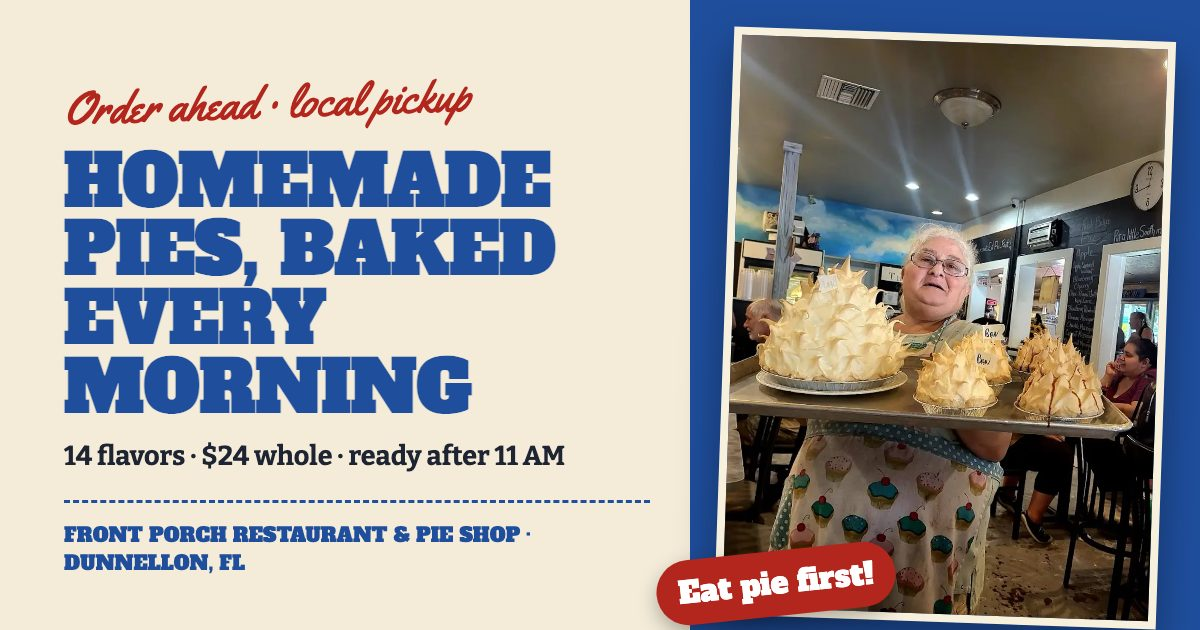
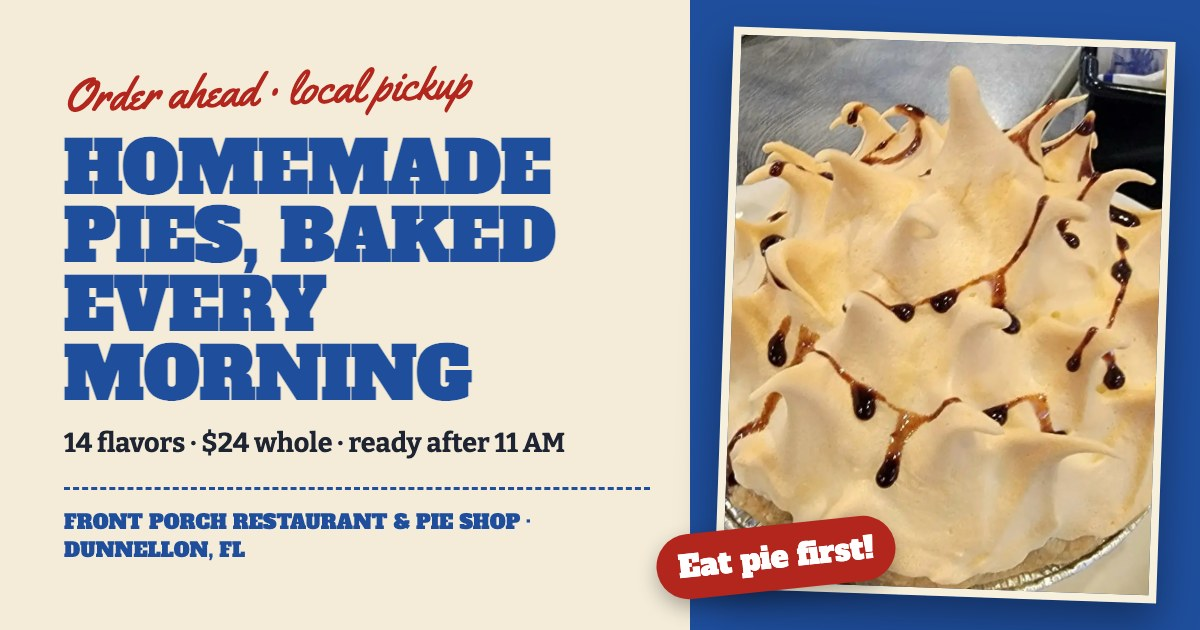
fix: replace former-employee photo on homepage, pies page and pies OG card
Swap pie-baker.webp for the meringue slice photo (pie.webp) on the home
pie feature and the pies hero, move the pies gallery's last slot to the
cobbler photo to avoid a duplicate, and re-render assets/og/pies.jpg
with the whole meringue pie. Delete pie-baker.webp from the repo.

diff --git a/pies.html b/pies.html
@@ -20,7 +20,7 @@
 <meta name="twitter:title" content="Order Homemade Pies — Front Porch Pie Shop, Dunnellon" />
 <meta name="twitter:description" content="Whole homemade pies $24, baked fresh every morning in Dunnellon, FL. 14 flavors: Key lime, pecan, apple, lemon meringue and more. Order a day ahead, pick up after 11 AM." />
 <meta name="twitter:image" content="https://palmettoai.github.io/front-porch-restaurant/assets/og/pies.jpg" />
-<link rel="preload" as="image" href="assets/img/pie-baker.webp" fetchpriority="high" />
+<link rel="preload" as="image" href="assets/img/pie.webp" fetchpriority="high" />
 <link rel="preconnect" href="https://fonts.googleapis.com" />
 <link rel="preconnect" href="https://fonts.gstatic.com" crossorigin />
 <link rel="stylesheet" href="https://fonts.googleapis.com/css2?family=Alfa+Slab+One&amp;family=Bitter:wght@400;700;800&amp;family=Yellowtail&amp;display=swap" />
@@ -291,7 +291,7 @@
         </div>
       </div>
       <div class="ph-art">
-        <div class="photo"><img src="assets/img/pie-baker.webp" width="825" height="1100" alt="A Front Porch baker carrying a tray of towering meringue pies" fetchpriority="high" /></div>
+        <div class="photo"><img src="assets/img/pie.webp" width="712" height="950" alt="A towering slice of Front Porch meringue pie drizzled with chocolate" fetchpriority="high" /></div>
         <p class="stamp" aria-hidden="true"><span>Life’s short</span><b>Eat pie first!</b></p>
       </div>
     </div>
@@ -401,7 +401,7 @@
         <figure class="polaroid g2 reveal"><img src="assets/img/pie-apple.webp" width="750" height="1000" alt="A slice of double-crust fruit pie" loading="lazy" /><figcaption>double crust</figcaption></figure>
         <figure class="polaroid g3 reveal"><img src="assets/img/pie-pecan.webp" width="640" height="640" alt="A slice of pecan pie" loading="lazy" /><figcaption>pecan</figcaption></figure>
         <figure class="polaroid g4 reveal"><img src="assets/img/pie-carrot.webp" width="640" height="640" alt="Pecan pie and a slice of carrot cake" loading="lazy" /><figcaption>carrot cake, too</figcaption></figure>
-        <figure class="polaroid g5 reveal"><img src="assets/img/pie.webp" width="712" height="950" alt="A slice of cream pie drizzled with chocolate" loading="lazy" /><figcaption>a slice for the road</figcaption></figure>
+        <figure class="polaroid g5 reveal"><img src="assets/img/cobbler.webp" width="640" height="640" alt="Warm fruit cobbler with a scoop of vanilla ice cream" loading="lazy" /><figcaption>à la mode</figcaption></figure>
       </div>
     </div>
   </section>

diff --git a/_build/pages/pies.html b/_build/pages/pies.html
@@ -6,7 +6,7 @@
  "og_title": "Order Homemade Pies — Front Porch Pie Shop, Dunnellon",
  "description": "Whole homemade pies $24, baked fresh every morning in Dunnellon, FL. 14 flavors: Key lime, pecan, apple, lemon meringue and more. Order a day ahead, pick up after 11 AM.",
  "og": "pies.jpg",
- "preload": "assets/img/pie-baker.webp",
+ "preload": "assets/img/pie.webp",
  "priority": "0.9",
  "schema": [
   {"@type": "Menu", "name": "Pie & Dessert Menu", "url": "https://palmettoai.github.io/front-porch-restaurant/pies.html",
@@ -43,7 +43,7 @@
         </div>
       </div>
       <div class="ph-art">
-        <div class="photo"><img src="assets/img/pie-baker.webp" width="825" height="1100" alt="A Front Porch baker carrying a tray of towering meringue pies" fetchpriority="high" /></div>
+        <div class="photo"><img src="assets/img/pie.webp" width="712" height="950" alt="A towering slice of Front Porch meringue pie drizzled with chocolate" fetchpriority="high" /></div>
         <p class="stamp" aria-hidden="true"><span>Life’s short</span><b>Eat pie first!</b></p>
       </div>
     </div>
@@ -153,7 +153,7 @@
         <figure class="polaroid g2 reveal"><img src="assets/img/pie-apple.webp" width="750" height="1000" alt="A slice of double-crust fruit pie" loading="lazy" /><figcaption>double crust</figcaption></figure>
         <figure class="polaroid g3 reveal"><img src="assets/img/pie-pecan.webp" width="640" height="640" alt="A slice of pecan pie" loading="lazy" /><figcaption>pecan</figcaption></figure>
         <figure class="polaroid g4 reveal"><img src="assets/img/pie-carrot.webp" width="640" height="640" alt="Pecan pie and a slice of carrot cake" loading="lazy" /><figcaption>carrot cake, too</figcaption></figure>
-        <figure class="polaroid g5 reveal"><img src="assets/img/pie.webp" width="712" height="950" alt="A slice of cream pie drizzled with chocolate" loading="lazy" /><figcaption>a slice for the road</figcaption></figure>
+        <figure class="polaroid g5 reveal"><img src="assets/img/cobbler.webp" width="640" height="640" alt="Warm fruit cobbler with a scoop of vanilla ice cream" loading="lazy" /><figcaption>à la mode</figcaption></figure>
       </div>
     </div>
   </section>

diff --git a/index.html b/index.html
@@ -205,7 +205,7 @@
   <section class="section on-blue pie-feature" aria-labelledby="pies-h">
     <div class="wrap pf-grid">
       <div class="pf-photo reveal">
-        <div class="photo"><img src="assets/img/pie-baker.webp" width="825" height="1100" alt="A Front Porch baker carrying a tray of towering meringue pies through the dining room" loading="lazy" /></div>
+        <div class="photo"><img src="assets/img/pie.webp" width="712" height="950" alt="A towering slice of Front Porch meringue pie drizzled with chocolate" loading="lazy" /></div>
       </div>
       <div class="pf-copy reveal">
         <span class="eyebrow">The Pie Shop</span>

diff --git a/_build/pages/index.html b/_build/pages/index.html
@@ -49,7 +49,7 @@
   <section class="section on-blue pie-feature" aria-labelledby="pies-h">
     <div class="wrap pf-grid">
       <div class="pf-photo reveal">
-        <div class="photo"><img src="assets/img/pie-baker.webp" width="825" height="1100" alt="A Front Porch baker carrying a tray of towering meringue pies through the dining room" loading="lazy" /></div>
+        <div class="photo"><img src="assets/img/pie.webp" width="712" height="950" alt="A towering slice of Front Porch meringue pie drizzled with chocolate" loading="lazy" /></div>
       </div>
       <div class="pf-copy reveal">
         <span class="eyebrow">The Pie Shop</span>
